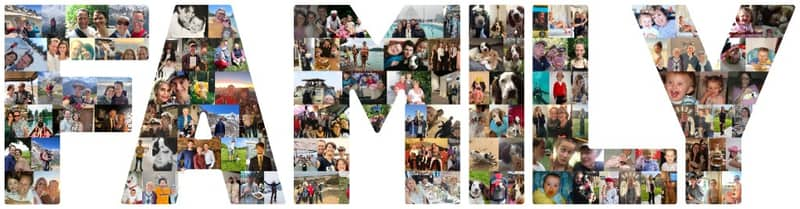
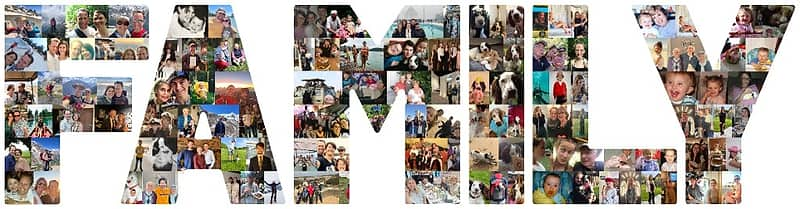
Improve FAMILY marquee sharpness and refresh Birthdays tile.
Serve a fuller FAMILY srcset with corrected sizes, and replace the Birthdays occasion photo with the MYLA display while keeping optimized WebP variants.

diff --git a/index.html b/index.html
@@ -56,13 +56,13 @@
               <img class="marquee-letter" src="assets/samples/18-800.webp" srcset="assets/samples/18-480.webp 480w, assets/samples/18-800.webp 800w" sizes="(max-width: 700px) 45vw, 28vh" width="800" height="707" alt="" loading="eager" decoding="async" />
               <img class="marquee-letter" src="assets/samples/mum-800.webp" srcset="assets/samples/mum-480.webp 480w, assets/samples/mum-800.webp 800w" sizes="(max-width: 700px) 45vw, 28vh" width="800" height="317" alt="" loading="eager" decoding="async" />
               <img class="marquee-letter" src="assets/samples/heart-800.webp" srcset="assets/samples/heart-480.webp 480w, assets/samples/heart-800.webp 800w" sizes="(max-width: 700px) 45vw, 28vh" width="800" height="800" alt="" loading="eager" decoding="async" />
-              <img class="marquee-letter" src="assets/samples/family-800.webp" srcset="assets/samples/family-480.webp 480w, assets/samples/family-800.webp 800w" sizes="(max-width: 700px) 45vw, 28vh" width="800" height="209" alt="" loading="eager" decoding="async" />
+              <img class="marquee-letter" src="assets/samples/family-800.webp?v=2" srcset="assets/samples/family-480.webp?v=2 480w, assets/samples/family-800.webp?v=2 800w, assets/samples/family-1600.webp?v=2 1024w" sizes="(max-width: 700px) 45vw, 88vh" width="1024" height="267" alt="" loading="eager" decoding="async" />
               <img class="marquee-letter" src="assets/samples/liz-800.webp" srcset="assets/samples/liz-480.webp 480w, assets/samples/liz-800.webp 800w" sizes="(max-width: 700px) 45vw, 28vh" width="800" height="451" alt="" loading="eager" decoding="async" />
               <img class="marquee-letter" src="assets/samples/son-800.webp" srcset="assets/samples/son-480.webp 480w, assets/samples/son-800.webp 800w" sizes="(max-width: 700px) 45vw, 28vh" width="800" height="347" alt="" loading="eager" decoding="async" />
               <img class="marquee-letter" src="assets/samples/18-800.webp" srcset="assets/samples/18-480.webp 480w, assets/samples/18-800.webp 800w" sizes="(max-width: 700px) 45vw, 28vh" width="800" height="707" alt="" loading="eager" decoding="async" />
               <img class="marquee-letter" src="assets/samples/mum-800.webp" srcset="assets/samples/mum-480.webp 480w, assets/samples/mum-800.webp 800w" sizes="(max-width: 700px) 45vw, 28vh" width="800" height="317" alt="" loading="eager" decoding="async" />
               <img class="marquee-letter" src="assets/samples/heart-800.webp" srcset="assets/samples/heart-480.webp 480w, assets/samples/heart-800.webp 800w" sizes="(max-width: 700px) 45vw, 28vh" width="800" height="800" alt="" loading="eager" decoding="async" />
-              <img class="marquee-letter" src="assets/samples/family-800.webp" srcset="assets/samples/family-480.webp 480w, assets/samples/family-800.webp 800w" sizes="(max-width: 700px) 45vw, 28vh" width="800" height="209" alt="" loading="eager" decoding="async" />
+              <img class="marquee-letter" src="assets/samples/family-800.webp?v=2" srcset="assets/samples/family-480.webp?v=2 480w, assets/samples/family-800.webp?v=2 800w, assets/samples/family-1600.webp?v=2 1024w" sizes="(max-width: 700px) 45vw, 88vh" width="1024" height="267" alt="" loading="eager" decoding="async" />
               <img class="marquee-letter" src="assets/samples/liz-800.webp" srcset="assets/samples/liz-480.webp 480w, assets/samples/liz-800.webp 800w" sizes="(max-width: 700px) 45vw, 28vh" width="800" height="451" alt="" loading="eager" decoding="async" />
             </div>
             <div class="marquee-set" aria-hidden="true">
@@ -70,13 +70,13 @@
               <img class="marquee-letter" src="assets/samples/18-800.webp" srcset="assets/samples/18-480.webp 480w, assets/samples/18-800.webp 800w" sizes="(max-width: 700px) 45vw, 28vh" width="800" height="707" alt="" loading="lazy" decoding="async" />
               <img class="marquee-letter" src="assets/samples/mum-800.webp" srcset="assets/samples/mum-480.webp 480w, assets/samples/mum-800.webp 800w" sizes="(max-width: 700px) 45vw, 28vh" width="800" height="317" alt="" loading="lazy" decoding="async" />
               <img class="marquee-letter" src="assets/samples/heart-800.webp" srcset="assets/samples/heart-480.webp 480w, assets/samples/heart-800.webp 800w" sizes="(max-width: 700px) 45vw, 28vh" width="800" height="800" alt="" loading="lazy" decoding="async" />
-              <img class="marquee-letter" src="assets/samples/family-800.webp" srcset="assets/samples/family-480.webp 480w, assets/samples/family-800.webp 800w" sizes="(max-width: 700px) 45vw, 28vh" width="800" height="209" alt="" loading="lazy" decoding="async" />
+              <img class="marquee-letter" src="assets/samples/family-800.webp?v=2" srcset="assets/samples/family-480.webp?v=2 480w, assets/samples/family-800.webp?v=2 800w, assets/samples/family-1600.webp?v=2 1024w" sizes="(max-width: 700px) 45vw, 88vh" width="1024" height="267" alt="" loading="lazy" decoding="async" />
               <img class="marquee-letter" src="assets/samples/liz-800.webp" srcset="assets/samples/liz-480.webp 480w, assets/samples/liz-800.webp 800w" sizes="(max-width: 700px) 45vw, 28vh" width="800" height="451" alt="" loading="lazy" decoding="async" />
               <img class="marquee-letter" src="assets/samples/son-800.webp" srcset="assets/samples/son-480.webp 480w, assets/samples/son-800.webp 800w" sizes="(max-width: 700px) 45vw, 28vh" width="800" height="347" alt="" loading="lazy" decoding="async" />
               <img class="marquee-letter" src="assets/samples/18-800.webp" srcset="assets/samples/18-480.webp 480w, assets/samples/18-800.webp 800w" sizes="(max-width: 700px) 45vw, 28vh" width="800" height="707" alt="" loading="lazy" decoding="async" />
               <img class="marquee-letter" src="assets/samples/mum-800.webp" srcset="assets/samples/mum-480.webp 480w, assets/samples/mum-800.webp 800w" sizes="(max-width: 700px) 45vw, 28vh" width="800" height="317" alt="" loading="lazy" decoding="async" />
               <img class="marquee-letter" src="assets/samples/heart-800.webp" srcset="assets/samples/heart-480.webp 480w, assets/samples/heart-800.webp 800w" sizes="(max-width: 700px) 45vw, 28vh" width="800" height="800" alt="" loading="lazy" decoding="async" />
-              <img class="marquee-letter" src="assets/samples/family-800.webp" srcset="assets/samples/family-480.webp 480w, assets/samples/family-800.webp 800w" sizes="(max-width: 700px) 45vw, 28vh" width="800" height="209" alt="" loading="lazy" decoding="async" />
+              <img class="marquee-letter" src="assets/samples/family-800.webp?v=2" srcset="assets/samples/family-480.webp?v=2 480w, assets/samples/family-800.webp?v=2 800w, assets/samples/family-1600.webp?v=2 1024w" sizes="(max-width: 700px) 45vw, 88vh" width="1024" height="267" alt="" loading="lazy" decoding="async" />
               <img class="marquee-letter" src="assets/samples/liz-800.webp" srcset="assets/samples/liz-480.webp 480w, assets/samples/liz-800.webp 800w" sizes="(max-width: 700px) 45vw, 28vh" width="800" height="451" alt="" loading="lazy" decoding="async" />
             </div>
           </div>
@@ -87,13 +87,13 @@
               <img class="marquee-letter" src="assets/samples/liz-800.webp" srcset="assets/samples/liz-480.webp 480w, assets/samples/liz-800.webp 800w" sizes="(max-width: 700px) 45vw, 28vh" width="800" height="451" alt="" loading="eager" decoding="async" />
               <img class="marquee-letter" src="assets/samples/heart-800.webp" srcset="assets/samples/heart-480.webp 480w, assets/samples/heart-800.webp 800w" sizes="(max-width: 700px) 45vw, 28vh" width="800" height="800" alt="" loading="eager" decoding="async" />
               <img class="marquee-letter" src="assets/samples/18-800.webp" srcset="assets/samples/18-480.webp 480w, assets/samples/18-800.webp 800w" sizes="(max-width: 700px) 45vw, 28vh" width="800" height="707" alt="" loading="eager" decoding="async" />
-              <img class="marquee-letter" src="assets/samples/family-800.webp" srcset="assets/samples/family-480.webp 480w, assets/samples/family-800.webp 800w" sizes="(max-width: 700px) 45vw, 28vh" width="800" height="209" alt="" loading="eager" decoding="async" />
+              <img class="marquee-letter" src="assets/samples/family-800.webp?v=2" srcset="assets/samples/family-480.webp?v=2 480w, assets/samples/family-800.webp?v=2 800w, assets/samples/family-1600.webp?v=2 1024w" sizes="(max-width: 700px) 45vw, 88vh" width="1024" height="267" alt="" loading="eager" decoding="async" />
               <img class="marquee-letter" src="assets/samples/son-800.webp" srcset="assets/samples/son-480.webp 480w, assets/samples/son-800.webp 800w" sizes="(max-width: 700px) 45vw, 28vh" width="800" height="347" alt="" loading="eager" decoding="async" />
               <img class="marquee-letter" src="assets/samples/mum-800.webp" srcset="assets/samples/mum-480.webp 480w, assets/samples/mum-800.webp 800w" sizes="(max-width: 700px) 45vw, 28vh" width="800" height="317" alt="" loading="eager" decoding="async" />
               <img class="marquee-letter" src="assets/samples/liz-800.webp" srcset="assets/samples/liz-480.webp 480w, assets/samples/liz-800.webp 800w" sizes="(max-width: 700px) 45vw, 28vh" width="800" height="451" alt="" loading="eager" decoding="async" />
               <img class="marquee-letter" src="assets/samples/heart-800.webp" srcset="assets/samples/heart-480.webp 480w, assets/samples/heart-800.webp 800w" sizes="(max-width: 700px) 45vw, 28vh" width="800" height="800" alt="" loading="eager" decoding="async" />
               <img class="marquee-letter" src="assets/samples/18-800.webp" srcset="assets/samples/18-480.webp 480w, assets/samples/18-800.webp 800w" sizes="(max-width: 700px) 45vw, 28vh" width="800" height="707" alt="" loading="eager" decoding="async" />
-              <img class="marquee-letter" src="assets/samples/family-800.webp" srcset="assets/samples/family-480.webp 480w, assets/samples/family-800.webp 800w" sizes="(max-width: 700px) 45vw, 28vh" width="800" height="209" alt="" loading="eager" decoding="async" />
+              <img class="marquee-letter" src="assets/samples/family-800.webp?v=2" srcset="assets/samples/family-480.webp?v=2 480w, assets/samples/family-800.webp?v=2 800w, assets/samples/family-1600.webp?v=2 1024w" sizes="(max-width: 700px) 45vw, 88vh" width="1024" height="267" alt="" loading="eager" decoding="async" />
               <img class="marquee-letter" src="assets/samples/son-800.webp" srcset="assets/samples/son-480.webp 480w, assets/samples/son-800.webp 800w" sizes="(max-width: 700px) 45vw, 28vh" width="800" height="347" alt="" loading="eager" decoding="async" />
               <img class="marquee-letter" src="assets/samples/mum-800.webp" srcset="assets/samples/mum-480.webp 480w, assets/samples/mum-800.webp 800w" sizes="(max-width: 700px) 45vw, 28vh" width="800" height="317" alt="" loading="eager" decoding="async" />
             </div>
@@ -101,13 +101,13 @@
               <img class="marquee-letter" src="assets/samples/liz-800.webp" srcset="assets/samples/liz-480.webp 480w, assets/samples/liz-800.webp 800w" sizes="(max-width: 700px) 45vw, 28vh" width="800" height="451" alt="" loading="lazy" decoding="async" />
               <img class="marquee-letter" src="assets/samples/heart-800.webp" srcset="assets/samples/heart-480.webp 480w, assets/samples/heart-800.webp 800w" sizes="(max-width: 700px) 45vw, 28vh" width="800" height="800" alt="" loading="lazy" decoding="async" />
               <img class="marquee-letter" src="assets/samples/18-800.webp" srcset="assets/samples/18-480.webp 480w, assets/samples/18-800.webp 800w" sizes="(max-width: 700px) 45vw, 28vh" width="800" height="707" alt="" loading="lazy" decoding="async" />
-              <img class="marquee-letter" src="assets/samples/family-800.webp" srcset="assets/samples/family-480.webp 480w, assets/samples/family-800.webp 800w" sizes="(max-width: 700px) 45vw, 28vh" width="800" height="209" alt="" loading="lazy" decoding="async" />
+              <img class="marquee-letter" src="assets/samples/family-800.webp?v=2" srcset="assets/samples/family-480.webp?v=2 480w, assets/samples/family-800.webp?v=2 800w, assets/samples/family-1600.webp?v=2 1024w" sizes="(max-width: 700px) 45vw, 88vh" width="1024" height="267" alt="" loading="lazy" decoding="async" />
               <img class="marquee-letter" src="assets/samples/son-800.webp" srcset="assets/samples/son-480.webp 480w, assets/samples/son-800.webp 800w" sizes="(max-width: 700px) 45vw, 28vh" width="800" height="347" alt="" loading="lazy" decoding="async" />
               <img class="marquee-letter" src="assets/samples/mum-800.webp" srcset="assets/samples/mum-480.webp 480w, assets/samples/mum-800.webp 800w" sizes="(max-width: 700px) 45vw, 28vh" width="800" height="317" alt="" loading="lazy" decoding="async" />
               <img class="marquee-letter" src="assets/samples/liz-800.webp" srcset="assets/samples/liz-480.webp 480w, assets/samples/liz-800.webp 800w" sizes="(max-width: 700px) 45vw, 28vh" width="800" height="451" alt="" loading="lazy" decoding="async" />
               <img class="marquee-letter" src="assets/samples/heart-800.webp" srcset="assets/samples/heart-480.webp 480w, assets/samples/heart-800.webp 800w" sizes="(max-width: 700px) 45vw, 28vh" width="800" height="800" alt="" loading="lazy" decoding="async" />
               <img class="marquee-letter" src="assets/samples/18-800.webp" srcset="assets/samples/18-480.webp 480w, assets/samples/18-800.webp 800w" sizes="(max-width: 700px) 45vw, 28vh" width="800" height="707" alt="" loading="lazy" decoding="async" />
-              <img class="marquee-letter" src="assets/samples/family-800.webp" srcset="assets/samples/family-480.webp 480w, assets/samples/family-800.webp 800w" sizes="(max-width: 700px) 45vw, 28vh" width="800" height="209" alt="" loading="lazy" decoding="async" />
+              <img class="marquee-letter" src="assets/samples/family-800.webp?v=2" srcset="assets/samples/family-480.webp?v=2 480w, assets/samples/family-800.webp?v=2 800w, assets/samples/family-1600.webp?v=2 1024w" sizes="(max-width: 700px) 45vw, 88vh" width="1024" height="267" alt="" loading="lazy" decoding="async" />
               <img class="marquee-letter" src="assets/samples/son-800.webp" srcset="assets/samples/son-480.webp 480w, assets/samples/son-800.webp 800w" sizes="(max-width: 700px) 45vw, 28vh" width="800" height="347" alt="" loading="lazy" decoding="async" />
               <img class="marquee-letter" src="assets/samples/mum-800.webp" srcset="assets/samples/mum-480.webp 480w, assets/samples/mum-800.webp 800w" sizes="(max-width: 700px) 45vw, 28vh" width="800" height="317" alt="" loading="lazy" decoding="async" />
             </div>
@@ -121,13 +121,13 @@
               <img class="marquee-letter" src="assets/samples/heart-800.webp" srcset="assets/samples/heart-480.webp 480w, assets/samples/heart-800.webp 800w" sizes="(max-width: 700px) 45vw, 28vh" width="800" height="800" alt="" loading="lazy" decoding="async" />
               <img class="marquee-letter" src="assets/samples/liz-800.webp" srcset="assets/samples/liz-480.webp 480w, assets/samples/liz-800.webp 800w" sizes="(max-width: 700px) 45vw, 28vh" width="800" height="451" alt="" loading="lazy" decoding="async" />
               <img class="marquee-letter" src="assets/samples/18-800.webp" srcset="assets/samples/18-480.webp 480w, assets/samples/18-800.webp 800w" sizes="(max-width: 700px) 45vw, 28vh" width="800" height="707" alt="" loading="lazy" decoding="async" />
-              <img class="marquee-letter" src="assets/samples/family-800.webp" srcset="assets/samples/family-480.webp 480w, assets/samples/family-800.webp 800w" sizes="(max-width: 700px) 45vw, 28vh" width="800" height="209" alt="" loading="lazy" decoding="async" />
+              <img class="marquee-letter" src="assets/samples/family-800.webp?v=2" srcset="assets/samples/family-480.webp?v=2 480w, assets/samples/family-800.webp?v=2 800w, assets/samples/family-1600.webp?v=2 1024w" sizes="(max-width: 700px) 45vw, 88vh" width="1024" height="267" alt="" loading="lazy" decoding="async" />
               <img class="marquee-letter" src="assets/samples/mum-800.webp" srcset="assets/samples/mum-480.webp 480w, assets/samples/mum-800.webp 800w" sizes="(max-width: 700px) 45vw, 28vh" width="800" height="317" alt="" loading="lazy" decoding="async" />
               <img class="marquee-letter" src="assets/samples/son-800.webp" srcset="assets/samples/son-480.webp 480w, assets/samples/son-800.webp 800w" sizes="(max-width: 700px) 45vw, 28vh" width="800" height="347" alt="" loading="lazy" decoding="async" />
               <img class="marquee-letter" src="assets/samples/heart-800.webp" srcset="assets/samples/heart-480.webp 480w, assets/samples/heart-800.webp 800w" sizes="(max-width: 700px) 45vw, 28vh" width="800" height="800" alt="" loading="lazy" decoding="async" />
               <img class="marquee-letter" src="assets/samples/liz-800.webp" srcset="assets/samples/liz-480.webp 480w, assets/samples/liz-800.webp 800w" sizes="(max-width: 700px) 45vw, 28vh" width="800" height="451" alt="" loading="lazy" decoding="async" />
               <img class="marquee-letter" src="assets/samples/18-800.webp" srcset="assets/samples/18-480.webp 480w, assets/samples/18-800.webp 800w" sizes="(max-width: 700px) 45vw, 28vh" width="800" height="707" alt="" loading="lazy" decoding="async" />
-              <img class="marquee-letter" src="assets/samples/family-800.webp" srcset="assets/samples/family-480.webp 480w, assets/samples/family-800.webp 800w" sizes="(max-width: 700px) 45vw, 28vh" width="800" height="209" alt="" loading="lazy" decoding="async" />
+              <img class="marquee-letter" src="assets/samples/family-800.webp?v=2" srcset="assets/samples/family-480.webp?v=2 480w, assets/samples/family-800.webp?v=2 800w, assets/samples/family-1600.webp?v=2 1024w" sizes="(max-width: 700px) 45vw, 88vh" width="1024" height="267" alt="" loading="lazy" decoding="async" />
             </div>
             <div class="marquee-set" aria-hidden="true">
               <img class="marquee-letter" src="assets/samples/mum-800.webp" srcset="assets/samples/mum-480.webp 480w, assets/samples/mum-800.webp 800w" sizes="(max-width: 700px) 45vw, 28vh" width="800" height="317" alt="" loading="lazy" decoding="async" />
@@ -135,26 +135,26 @@
               <img class="marquee-letter" src="assets/samples/heart-800.webp" srcset="assets/samples/heart-480.webp 480w, assets/samples/heart-800.webp 800w" sizes="(max-width: 700px) 45vw, 28vh" width="800" height="800" alt="" loading="lazy" decoding="async" />
               <img class="marquee-letter" src="assets/samples/liz-800.webp" srcset="assets/samples/liz-480.webp 480w, assets/samples/liz-800.webp 800w" sizes="(max-width: 700px) 45vw, 28vh" width="800" height="451" alt="" loading="lazy" decoding="async" />
               <img class="marquee-letter" src="assets/samples/18-800.webp" srcset="assets/samples/18-480.webp 480w, assets/samples/18-800.webp 800w" sizes="(max-width: 700px) 45vw, 28vh" width="800" height="707" alt="" loading="lazy" decoding="async" />
-              <img class="marquee-letter" src="assets/samples/family-800.webp" srcset="assets/samples/family-480.webp 480w, assets/samples/family-800.webp 800w" sizes="(max-width: 700px) 45vw, 28vh" width="800" height="209" alt="" loading="lazy" decoding="async" />
+              <img class="marquee-letter" src="assets/samples/family-800.webp?v=2" srcset="assets/samples/family-480.webp?v=2 480w, assets/samples/family-800.webp?v=2 800w, assets/samples/family-1600.webp?v=2 1024w" sizes="(max-width: 700px) 45vw, 88vh" width="1024" height="267" alt="" loading="lazy" decoding="async" />
               <img class="marquee-letter" src="assets/samples/mum-800.webp" srcset="assets/samples/mum-480.webp 480w, assets/samples/mum-800.webp 800w" sizes="(max-width: 700px) 45vw, 28vh" width="800" height="317" alt="" loading="lazy" decoding="async" />
               <img class="marquee-letter" src="assets/samples/son-800.webp" srcset="assets/samples/son-480.webp 480w, assets/samples/son-800.webp 800w" sizes="(max-width: 700px) 45vw, 28vh" width="800" height="347" alt="" loading="lazy" decoding="async" />
               <img class="marquee-letter" src="assets/samples/heart-800.webp" srcset="assets/samples/heart-480.webp 480w, assets/samples/heart-800.webp 800w" sizes="(max-width: 700px) 45vw, 28vh" width="800" height="800" alt="" loading="lazy" decoding="async" />
               <img class="marquee-letter" src="assets/samples/liz-800.webp" srcset="assets/samples/liz-480.webp 480w, assets/samples/liz-800.webp 800w" sizes="(max-width: 700px) 45vw, 28vh" width="800" height="451" alt="" loading="lazy" decoding="async" />
               <img class="marquee-letter" src="assets/samples/18-800.webp" srcset="assets/samples/18-480.webp 480w, assets/samples/18-800.webp 800w" sizes="(max-width: 700px) 45vw, 28vh" width="800" height="707" alt="" loading="lazy" decoding="async" />
-              <img class="marquee-letter" src="assets/samples/family-800.webp" srcset="assets/samples/family-480.webp 480w, assets/samples/family-800.webp 800w" sizes="(max-width: 700px) 45vw, 28vh" width="800" height="209" alt="" loading="lazy" decoding="async" />
+              <img class="marquee-letter" src="assets/samples/family-800.webp?v=2" srcset="assets/samples/family-480.webp?v=2 480w, assets/samples/family-800.webp?v=2 800w, assets/samples/family-1600.webp?v=2 1024w" sizes="(max-width: 700px) 45vw, 88vh" width="1024" height="267" alt="" loading="lazy" decoding="async" />
             </div>
           </div>
         </div>
         <div class="marquee-row marquee-row--ltr">
           <div class="marquee-track">
             <div class="marquee-set">
-              <img class="marquee-letter" src="assets/samples/family-800.webp" srcset="assets/samples/family-480.webp 480w, assets/samples/family-800.webp 800w" sizes="(max-width: 700px) 45vw, 28vh" width="800" height="209" alt="" loading="lazy" decoding="async" />
+              <img class="marquee-letter" src="assets/samples/family-800.webp?v=2" srcset="assets/samples/family-480.webp?v=2 480w, assets/samples/family-800.webp?v=2 800w, assets/samples/family-1600.webp?v=2 1024w" sizes="(max-width: 700px) 45vw, 88vh" width="1024" height="267" alt="" loading="lazy" decoding="async" />
               <img class="marquee-letter" src="assets/samples/18-800.webp" srcset="assets/samples/18-480.webp 480w, assets/samples/18-800.webp 800w" sizes="(max-width: 700px) 45vw, 28vh" width="800" height="707" alt="" loading="lazy" decoding="async" />
               <img class="marquee-letter" src="assets/samples/liz-800.webp" srcset="assets/samples/liz-480.webp 480w, assets/samples/liz-800.webp 800w" sizes="(max-width: 700px) 45vw, 28vh" width="800" height="451" alt="" loading="lazy" decoding="async" />
               <img class="marquee-letter" src="assets/samples/heart-800.webp" srcset="assets/samples/heart-480.webp 480w, assets/samples/heart-800.webp 800w" sizes="(max-width: 700px) 45vw, 28vh" width="800" height="800" alt="" loading="lazy" decoding="async" />
               <img class="marquee-letter" src="assets/samples/mum-800.webp" srcset="assets/samples/mum-480.webp 480w, assets/samples/mum-800.webp 800w" sizes="(max-width: 700px) 45vw, 28vh" width="800" height="317" alt="" loading="lazy" decoding="async" />
               <img class="marquee-letter" src="assets/samples/son-800.webp" srcset="assets/samples/son-480.webp 480w, assets/samples/son-800.webp 800w" sizes="(max-width: 700px) 45vw, 28vh" width="800" height="347" alt="" loading="lazy" decoding="async" />
-              <img class="marquee-letter" src="assets/samples/family-800.webp" srcset="assets/samples/family-480.webp 480w, assets/samples/family-800.webp 800w" sizes="(max-width: 700px) 45vw, 28vh" width="800" height="209" alt="" loading="lazy" decoding="async" />
+              <img class="marquee-letter" src="assets/samples/family-800.webp?v=2" srcset="assets/samples/family-480.webp?v=2 480w, assets/samples/family-800.webp?v=2 800w, assets/samples/family-1600.webp?v=2 1024w" sizes="(max-width: 700px) 45vw, 88vh" width="1024" height="267" alt="" loading="lazy" decoding="async" />
               <img class="marquee-letter" src="assets/samples/18-800.webp" srcset="assets/samples/18-480.webp 480w, assets/samples/18-800.webp 800w" sizes="(max-width: 700px) 45vw, 28vh" width="800" height="707" alt="" loading="lazy" decoding="async" />
               <img class="marquee-letter" src="assets/samples/liz-800.webp" srcset="assets/samples/liz-480.webp 480w, assets/samples/liz-800.webp 800w" sizes="(max-width: 700px) 45vw, 28vh" width="800" height="451" alt="" loading="lazy" decoding="async" />
               <img class="marquee-letter" src="assets/samples/heart-800.webp" srcset="assets/samples/heart-480.webp 480w, assets/samples/heart-800.webp 800w" sizes="(max-width: 700px) 45vw, 28vh" width="800" height="800" alt="" loading="lazy" decoding="async" />
@@ -162,13 +162,13 @@
               <img class="marquee-letter" src="assets/samples/son-800.webp" srcset="assets/samples/son-480.webp 480w, assets/samples/son-800.webp 800w" sizes="(max-width: 700px) 45vw, 28vh" width="800" height="347" alt="" loading="lazy" decoding="async" />
             </div>
             <div class="marquee-set" aria-hidden="true">
-              <img class="marquee-letter" src="assets/samples/family-800.webp" srcset="assets/samples/family-480.webp 480w, assets/samples/family-800.webp 800w" sizes="(max-width: 700px) 45vw, 28vh" width="800" height="209" alt="" loading="lazy" decoding="async" />
+              <img class="marquee-letter" src="assets/samples/family-800.webp?v=2" srcset="assets/samples/family-480.webp?v=2 480w, assets/samples/family-800.webp?v=2 800w, assets/samples/family-1600.webp?v=2 1024w" sizes="(max-width: 700px) 45vw, 88vh" width="1024" height="267" alt="" loading="lazy" decoding="async" />
               <img class="marquee-letter" src="assets/samples/18-800.webp" srcset="assets/samples/18-480.webp 480w, assets/samples/18-800.webp 800w" sizes="(max-width: 700px) 45vw, 28vh" width="800" height="707" alt="" loading="lazy" decoding="async" />
               <img class="marquee-letter" src="assets/samples/liz-800.webp" srcset="assets/samples/liz-480.webp 480w, assets/samples/liz-800.webp 800w" sizes="(max-width: 700px) 45vw, 28vh" width="800" height="451" alt="" loading="lazy" decoding="async" />
               <img class="marquee-letter" src="assets/samples/heart-800.webp" srcset="assets/samples/heart-480.webp 480w, assets/samples/heart-800.webp 800w" sizes="(max-width: 700px) 45vw, 28vh" width="800" height="800" alt="" loading="lazy" decoding="async" />
               <img class="marquee-letter" src="assets/samples/mum-800.webp" srcset="assets/samples/mum-480.webp 480w, assets/samples/mum-800.webp 800w" sizes="(max-width: 700px) 45vw, 28vh" width="800" height="317" alt="" loading="lazy" decoding="async" />
               <img class="marquee-letter" src="assets/samples/son-800.webp" srcset="assets/samples/son-480.webp 480w, assets/samples/son-800.webp 800w" sizes="(max-width: 700px) 45vw, 28vh" width="800" height="347" alt="" loading="lazy" decoding="async" />
-              <img class="marquee-letter" src="assets/samples/family-800.webp" srcset="assets/samples/family-480.webp 480w, assets/samples/family-800.webp 800w" sizes="(max-width: 700px) 45vw, 28vh" width="800" height="209" alt="" loading="lazy" decoding="async" />
+              <img class="marquee-letter" src="assets/samples/family-800.webp?v=2" srcset="assets/samples/family-480.webp?v=2 480w, assets/samples/family-800.webp?v=2 800w, assets/samples/family-1600.webp?v=2 1024w" sizes="(max-width: 700px) 45vw, 88vh" width="1024" height="267" alt="" loading="lazy" decoding="async" />
               <img class="marquee-letter" src="assets/samples/18-800.webp" srcset="assets/samples/18-480.webp 480w, assets/samples/18-800.webp 800w" sizes="(max-width: 700px) 45vw, 28vh" width="800" height="707" alt="" loading="lazy" decoding="async" />
               <img class="marquee-letter" src="assets/samples/liz-800.webp" srcset="assets/samples/liz-480.webp 480w, assets/samples/liz-800.webp 800w" sizes="(max-width: 700px) 45vw, 28vh" width="800" height="451" alt="" loading="lazy" decoding="async" />
               <img class="marquee-letter" src="assets/samples/heart-800.webp" srcset="assets/samples/heart-480.webp 480w, assets/samples/heart-800.webp 800w" sizes="(max-width: 700px) 45vw, 28vh" width="800" height="800" alt="" loading="lazy" decoding="async" />
@@ -216,11 +216,11 @@
               <div class="tile-photo-wrap">
                 <img
                   class="tile-photo"
-                  src="assets/tiles/birthdays-640.webp"
-                  srcset="assets/tiles/birthdays-400.webp 400w, assets/tiles/birthdays-640.webp 640w, assets/tiles/birthdays-800.webp 800w, assets/tiles/birthdays-1024.webp 1024w"
+                  src="assets/tiles/birthdays-640.webp?v=2"
+                  srcset="assets/tiles/birthdays-400.webp?v=2 400w, assets/tiles/birthdays-640.webp?v=2 640w, assets/tiles/birthdays-800.webp?v=2 800w, assets/tiles/birthdays-1024.webp?v=2 1024w"
                   sizes="(max-width: 700px) 92vw, (max-width: 1100px) 45vw, 280px"
-                  width="800"
-                  height="588"
+                  width="1024"
+                  height="708"
                   alt=""
                   loading="lazy"
                   decoding="async"
